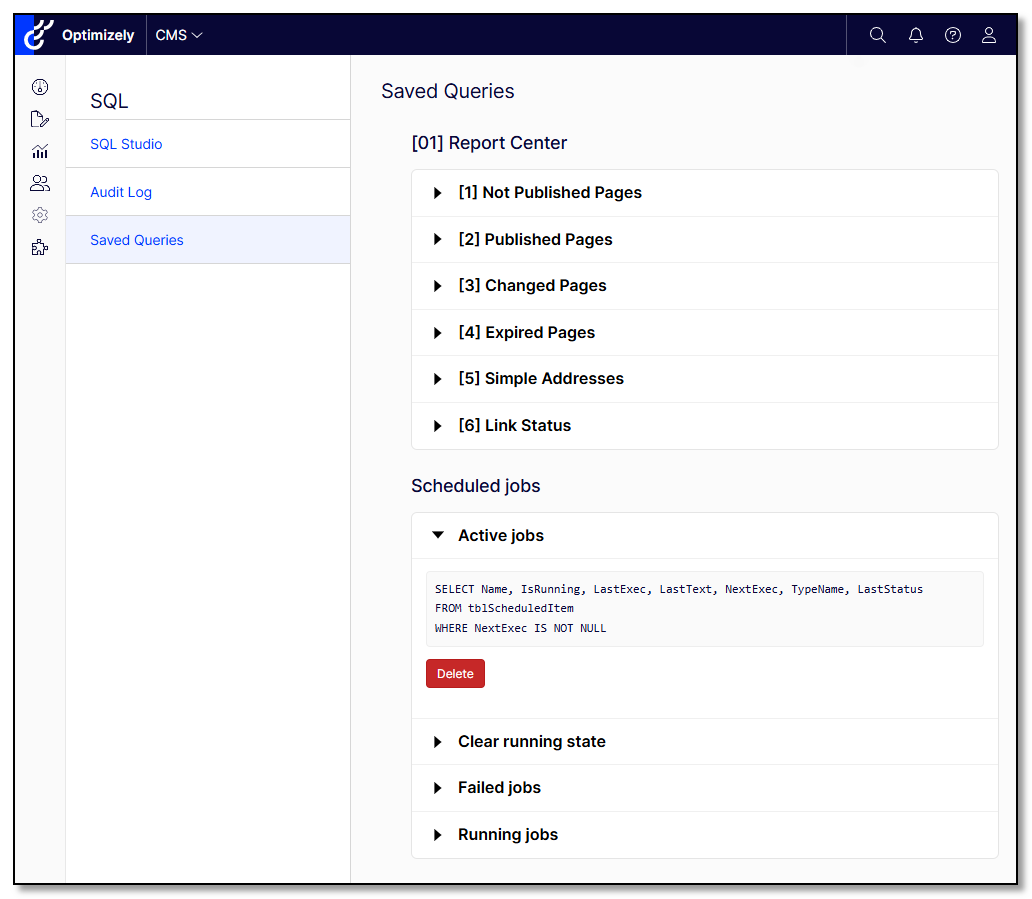
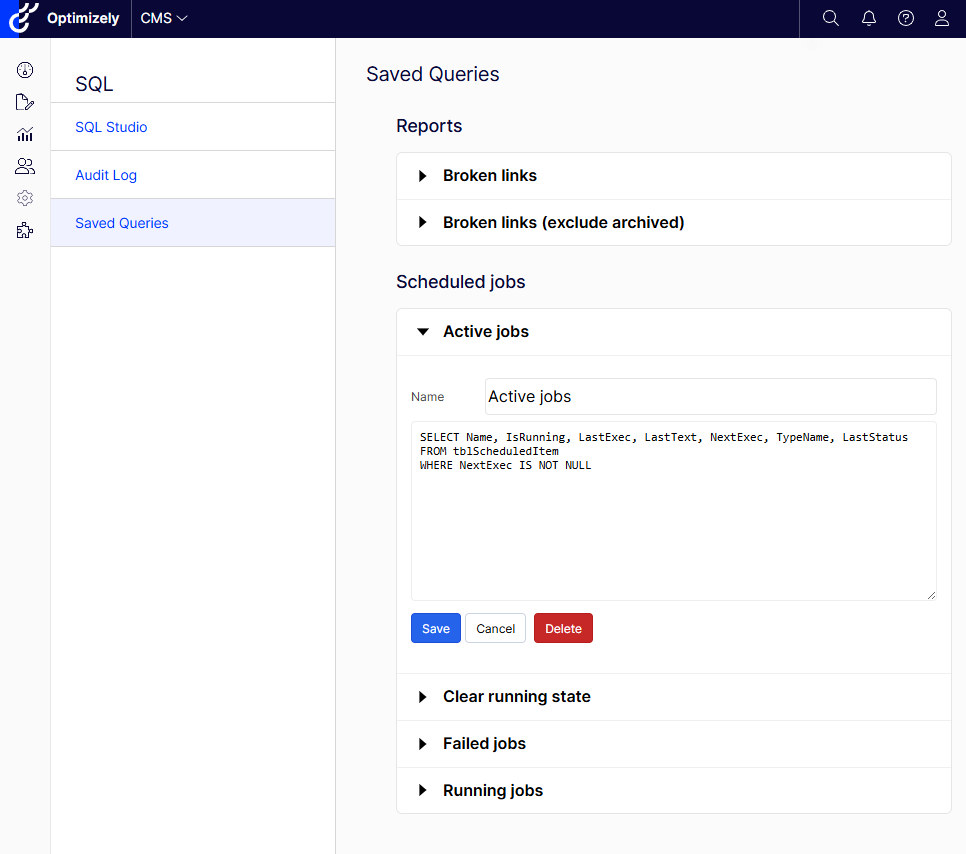
Edit sql query names too

diff --git a/src/Gulla.Episerver.SqlStudio/Controllers/SavedQueriesController.cs b/src/Gulla.Episerver.SqlStudio/Controllers/SavedQueriesController.cs
@@ -77,7 +77,7 @@ namespace Gulla.Episerver.SqlStudio.Controllers
         }
 
         [HttpPost("update")]
-        public IActionResult Update(string category, string name, string query)
+        public IActionResult Update(string category, string currentName, string newName, string query)
         {
             if (!_configurationService.Enabled() || !_configurationService.IsSavedQueriesEnabled())
             {
@@ -87,7 +87,7 @@ namespace Gulla.Episerver.SqlStudio.Controllers
                 };
             }
 
-            if (string.IsNullOrWhiteSpace(name))
+            if (string.IsNullOrWhiteSpace(currentName))
             {
                 return BadRequest(new { ok = false, message = "Missing query name." });
             }
@@ -95,7 +95,7 @@ namespace Gulla.Episerver.SqlStudio.Controllers
             var connectionStringList = GetConnectionStringList(_dataAccessOptions, _configuration);
             var connectionString = connectionStringList.FirstOrDefault()?.Value;
 
-            _queryRepository.UpdateQuery(_configurationService, _sqlStudioDdsRepository, connectionString, category, name, query);
+            _queryRepository.UpdateQuery(_configurationService, _sqlStudioDdsRepository, connectionString, category, currentName, newName, query);
 
             return Ok(new { ok = true });
         }

diff --git a/src/Gulla.Episerver.SqlStudio/DataAccess/QueryRepository.cs b/src/Gulla.Episerver.SqlStudio/DataAccess/QueryRepository.cs
@@ -76,12 +76,13 @@ namespace Gulla.Episerver.SqlStudio.DataAccess
             string connectionString,
             string category,
             string name,
+            string newName,
             string newQuery)
         {
-            // 1) Update the DB
+
             const string sql = @"
                 UPDATE SqlQueries
-                SET Query = @query
+                SET Name = @newName, Query = @query
                 WHERE Name = @name AND Category = @category;";
 
             var normalizedCategory = string.IsNullOrWhiteSpace(category) ? string.Empty : category;
@@ -92,6 +93,7 @@ namespace Gulla.Episerver.SqlStudio.DataAccess
                 using (var cmd = new SqlCommand(sql, cn))
                 {
                     cmd.Parameters.Add("@name", SqlDbType.NVarChar, 255).Value = name;
+                    cmd.Parameters.Add("@newName", SqlDbType.NVarChar, 255).Value = newName;
                     cmd.Parameters.Add("@category", SqlDbType.NVarChar, 255).Value = normalizedCategory;
                     cmd.Parameters.Add("@query", SqlDbType.NVarChar).Value = newQuery ?? string.Empty;
                     cmd.ExecuteNonQuery();
